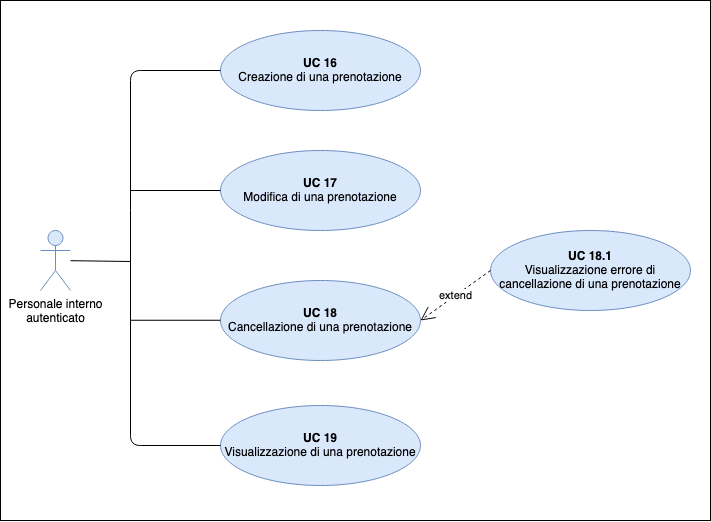
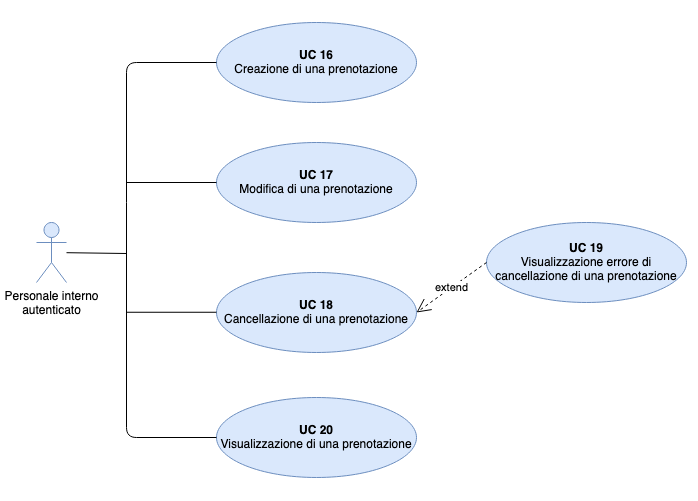
Fix Indici

diff --git a/DocumentiEsterni/AnalisiDeiRequisiti/src/Requisiti/main.tex b/DocumentiEsterni/AnalisiDeiRequisiti/src/Requisiti/main.tex
@@ -57,21 +57,21 @@ Inoltre, ad ogni requisito \`{e} stata assegnata un'importanza:
     R-10.4-F-O & Il sistema deve permettere la selezione dell'ora per cui effettuare la prenotazione & UC-16.4 \\
     R-11-F-O & Il sistema deve permettere la modifica di una prenotazione precedentemente effettuata & UC-17 \\
     R-12-F-O & Il sistema deve permettere la cancellazione di una prenotazione precedentemente effettuata & UC-18 \\
-    R-13-F-D & Il sistema deve permettere la visualizzazione delle prenotazioni effettuate & UC-19 \\
-    R-14-F-O & Il sistema deve permettere la marcatura di una postazione come "igienizzata" & UC-20 \\
-    R-15-F-O & Il sistema deve marcare una postazione come "sporca" nel momento in cui viene occupata & UC-21 \\
-    R-16-F-O & Il sistema deve permettere di marcare una postazione come "occupata" & UC-22 \\
-    R-17-F-O & Il sistema deve permettere ad un amministratore autenticato di contrassegnare una postazione come abilitata & UC-23 \\
-    R-18-F-O & Il sistema deve permettere ad un amministratore autenticato di aggiungere una postazione & UC-24 \\
-    R-19-F-O & Il sistema deve permettere ad un amministratore autenticato la disabilitazione di una postazione & UC-25 \\
-    R-20-F-O & Il sistema deve permettere ad un amministratore autenticato la rimozione di una postazione & UC-26 \\
-    R-21-F-D & Il sistema deve permettere ad un amministratore autenticato la visualizzazione dello storico di una postazione & UC-27 \\
-    R-22-F-O & Il sistema deve permettere ad un amministratore autenticato lo scaricamento di report dello storico di una postazione & UC-28 \\
-    R-23-F-O & Il sistema deve permettere ad un amministratore autenticato di aggiungere una stanza & UC-29 \\
-    R-24-F-O & Il sistema deve permettere ad un amministratore autenticato la disabilitazione di una stanza & UC-30 \\
-    R-25-F-O & Il sistema deve permettere ad un amministratore autenticato la rimozione di una stanza & UC-31 \\
-    R-26-F-D & Il sistema deve permettere ad un amministratore autenticato la visualizzazione dello storico di una stanza & UC-32 \\
-    R-27-F-O & Il sistema deve permettere ad un amministratore autenticato lo scaricamento di report dello storico di una stanza & UC-33 \\
-    R-28-F-O & Il sistema deve permettere ad un igienizzatore di marcare una postazione come "igienizzata" & UC-34 \\
-    R-29-F-O & Il sistema deve permettere ad un igienizzatore di marcare una stanza come "igienizzata" & UC-35 \\
+    R-13-F-D & Il sistema deve permettere la visualizzazione delle prenotazioni effettuate & UC-20 \\
+    R-14-F-O & Il sistema deve permettere la marcatura di una postazione come "igienizzata" & UC-21 \\
+    R-15-F-O & Il sistema deve marcare una postazione come "sporca" nel momento in cui viene occupata & UC-22 \\
+    R-16-F-O & Il sistema deve permettere di marcare una postazione come "occupata" & UC-23 \\
+    R-17-F-O & Il sistema deve permettere ad un amministratore autenticato di contrassegnare una postazione come abilitata & UC-24 \\
+    R-18-F-O & Il sistema deve permettere ad un amministratore autenticato di aggiungere una postazione & UC-25 \\
+    R-19-F-O & Il sistema deve permettere ad un amministratore autenticato la disabilitazione di una postazione & UC-26 \\
+    R-20-F-O & Il sistema deve permettere ad un amministratore autenticato la rimozione di una postazione & UC-27 \\
+    R-21-F-D & Il sistema deve permettere ad un amministratore autenticato la visualizzazione dello storico di una postazione & UC-28 \\
+    R-22-F-O & Il sistema deve permettere ad un amministratore autenticato lo scaricamento di report dello storico di una postazione & UC-29 \\
+    R-23-F-O & Il sistema deve permettere ad un amministratore autenticato di aggiungere una stanza & UC-30 \\
+    R-24-F-O & Il sistema deve permettere ad un amministratore autenticato la disabilitazione di una stanza & UC-31 \\
+    R-25-F-O & Il sistema deve permettere ad un amministratore autenticato la rimozione di una stanza & UC-32 \\
+    R-26-F-D & Il sistema deve permettere ad un amministratore autenticato la visualizzazione dello storico di una stanza & UC-33 \\
+    R-27-F-O & Il sistema deve permettere ad un amministratore autenticato lo scaricamento di report dello storico di una stanza & UC-34 \\
+    R-28-F-O & Il sistema deve permettere ad un igienizzatore di marcare una postazione come "igienizzata" & UC-35 \\
+    R-29-F-O & Il sistema deve permettere ad un igienizzatore di marcare una stanza come "igienizzata" & UC-36 \\
 \end{longtable}

diff --git a/DocumentiEsterni/AnalisiDeiRequisiti/src/CasiDUso/src/UC-stanza.tex b/DocumentiEsterni/AnalisiDeiRequisiti/src/CasiDUso/src/UC-stanza.tex
@@ -1,4 +1,4 @@
-\subsection{UC-29 Aggiunta stanza}
+\subsection{UC-30 Aggiunta stanza}
 \begin{itemize}
     \item \textbf{Attori:} amministratore autenticato;
     \item \textbf{Descrizione:} un amministratore pu\`{o} aggiungere una stanza alla lista di stanze censite;
@@ -12,7 +12,7 @@
 \end{itemize}
 
 
-\subsection{UC-30 Disabilitazione stanza}
+\subsection{UC-31 Disabilitazione stanza}
 \begin{itemize}
     \item \textbf{Attori:} amministratore autenticato;
     \item \textbf{Descrizione:} un amministratore pu\`{o} disabilitare una stanza, impedendo la prenotazione delle postazioni presenti all'interno della stanza. Tutte le prenotazioni per tutte le postazioni di quella stanza vengono cancellate;
@@ -27,7 +27,7 @@
 \end{itemize}
 
 
-\subsection{UC-31 Rimozione stanza}
+\subsection{UC-32 Rimozione stanza}
 \begin{itemize}
     \item \textbf{Attori:} amministratore autenticato;
     \item \textbf{Descrizione:} un amministratore pu\`{o} rimuovere una stanza, rimuovendo cos\`{i} la prenotazione delle postazioni presenti all'interno della stanza. Tutte le prenotazioni per quella stanza vengono cancellate;
@@ -43,7 +43,7 @@
 
 
 
-\subsection{UC-32 Visualizzazione storico stanza}
+\subsection{UC-33 Visualizzazione storico stanza}
 \begin{itemize}
     \item \textbf{Attori:} amministratore autenticato;
     \item \textbf{Descrizione:} un amministratore pu\`{o} visualizzare lo storico degli utilizzi e delle pulizie di tutte le postazioni di una stanza, con specificazione dell'utente che ha compiuto ogni azione;
@@ -57,7 +57,7 @@
 
 
 
-\subsection{UC-33 Scarica report stanza}
+\subsection{UC-34 Scarica report stanza}
 \begin{itemize}
     \item \textbf{Attori:} amministratore autenticato;
     \item \textbf{Descrizione:} un amministratore pu\`{o} scaricare un report che sommarizza l'utilizzo delle stanze e delle postazioni.

diff --git a/DocumentiEsterni/AnalisiDeiRequisiti/src/CasiDUso/src/UC-postazione.tex b/DocumentiEsterni/AnalisiDeiRequisiti/src/CasiDUso/src/UC-postazione.tex
@@ -1,4 +1,4 @@
-\subsection{UC-24 Aggiunta postazione}
+\subsection{UC-25 Aggiunta postazione}
 \begin{itemize}
     \item \textbf{Attori:} amministratore autenticato;
     \item \textbf{Descrizione:} un amministratore pu\`{o} aggiungere una postazione alla lista di postazioni disponibili eventualmente aggiungendo la postazione ad una stanza;
@@ -12,7 +12,7 @@
 \end{itemize}
 
 
-\subsection{UC-25 Disabilitazione postazione}
+\subsection{UC-26 Disabilitazione postazione}
 \begin{itemize}
     \item \textbf{Attori:} amministratore autenticato;
     \item \textbf{Descrizione:} un amministratore pu\`{o} disabilitare una postazione, rendendola non prenotabile. Tutte le prenotazioni per quella postazione vengono cancellate;
@@ -27,7 +27,7 @@
 \end{itemize}
 
 
-\subsection{UC-26 Rimozione postazione}
+\subsection{UC-27 Rimozione postazione}
 \begin{itemize}
     \item \textbf{Attori:} amministratore autenticato;
     \item \textbf{Descrizione:} un amministratore pu\`{o} rimuovere una postazione dalla lista di postazioni disponibili;
@@ -42,7 +42,7 @@
 \end{itemize}
 
 
-\subsection{UC-27 Visualizzazione storico postazione}
+\subsection{UC-28 Visualizzazione storico postazione}
 \begin{itemize}
     \item \textbf{Attori:} amministratore autenticato;
     \item \textbf{Descrizione:} un amministratore pu\`{o} visualizzare lo storico degli utilizzi e delle pulizie della postazione con specificazione dell'utente che ha compiuto ogni azione;
@@ -56,7 +56,7 @@
 
 
 
-\subsection{UC-28 Scarica report postazione}
+\subsection{UC-29 Scarica report postazione}
 \begin{itemize}
     \item \textbf{Attori:} amministratore autenticato;
     \item \textbf{Descrizione:} un amministratore pu\`{o} scaricare un report che sommarizza l'utilizzo della postazione;

diff --git a/DocumentiEsterni/AnalisiDeiRequisiti/src/CasiDUso/src/UC-creazionePrenotazione.tex b/DocumentiEsterni/AnalisiDeiRequisiti/src/CasiDUso/src/UC-creazionePrenotazione.tex
@@ -24,7 +24,7 @@ Il presente diagramma vuole riassumere la possibilità di gestione delle prenota
 \subsection{UC-16 Creazione di una prenotazione}
 \begin{figure}[H]
 	\centering
-	  \includegraphics[scale=0.80]{src/CasiDUso/immagini/UC-gestionePrenotazione.png}\\
+	  \includegraphics[width=\textwidth]{src/CasiDUso/immagini/UC-gestionePrenotazione.png}\\
 	\caption{Creazione di una prenotazione}
   \end{figure}
 \begin{itemize}
@@ -135,7 +135,7 @@ Il presente diagramma vuole riassumere la possibilità di gestione delle prenota
 	\end{itemize}
 \end{itemize}
 
-\subsubsection{UC-18.1 Visualizzazione errore di cancellazione: tentativo di cancellazione di una prenotazione per un orario passato}
+\subsubsection{UC-19 Visualizzazione errore di cancellazione: tentativo di cancellazione di una prenotazione per un orario passato}
 \begin{itemize}
 \item \textbf{Attori primari:} personale interno autenticato;
 \item \textbf{Precondizione:} il personale interno autenticato sta cercando di cancellare una prenotazione già usufruita in un orario passato;
@@ -143,8 +143,8 @@ Il presente diagramma vuole riassumere la possibilità di gestione delle prenota
 \item \textbf{Scenario principale:} il personale interno autenticato visualizza un messaggio di errore in cui viene informato che non è possibile cancellare una prenotazione per un orario passato.
 \end{itemize}
 \newpage
-\subsection{UC-19 Visualizzazione di una prenotazione}
 
+\subsection{UC-20 Visualizzazione di una prenotazione}
 \begin{itemize}
 \item \textbf{Attori primari:} personale interno autenticato;
 \item \textbf{Descrizione:} l'attore vuole visualizzare le sue prenotazioni attive nel sistema;

diff --git a/DocumentiEsterni/AnalisiDeiRequisiti/src/CasiDUso/src/UC-statoPostazioni.tex b/DocumentiEsterni/AnalisiDeiRequisiti/src/CasiDUso/src/UC-statoPostazioni.tex
@@ -21,7 +21,7 @@ Il presente diagramma vuole riassumere la possibilità di prenotazione delle pre
 \end{itemize}
 
 
-\subsection{UC-20 Marca postazione igienizzata}
+\subsection{UC-21 Marca postazione igienizzata}
 
 \begin{itemize}
 \item \textbf{Attori primari:} personale interno autenticato;
@@ -36,7 +36,7 @@ Il presente diagramma vuole riassumere la possibilità di prenotazione delle pre
 	\end{itemize}
 \end{itemize}
 
-\subsection{UC-21 Marca postazione sporca}
+\subsection{UC-22 Marca postazione sporca}
 
 \begin{itemize}
 \item \textbf{Attori primari:} personale interno autenticato;
@@ -52,7 +52,7 @@ Il presente diagramma vuole riassumere la possibilità di prenotazione delle pre
 
 \newpage
 
-\subsection{UC-22 Marca postazione occupata}
+\subsection{UC-23 Marca postazione occupata}
 
 \begin{itemize}
 \item \textbf{Attori primari:} personale interno autenticato;
@@ -75,7 +75,7 @@ Il presente diagramma vuole riassumere la possibilità di prenotazione delle pre
 %	\end{itemize}%
 %\end{itemize}%
 
-\subsection{UC-23 Contrassegna postazione abilitata}
+\subsection{UC-24 Contrassegna postazione abilitata}
 
 \begin{itemize}
 \item \textbf{Attori primari:} amministratore;

diff --git a/DocumentiEsterni/AnalisiDeiRequisiti/src/CasiDUso/src/UC-igienizzazionePostazioni.tex b/DocumentiEsterni/AnalisiDeiRequisiti/src/CasiDUso/src/UC-igienizzazionePostazioni.tex
@@ -20,7 +20,7 @@ Il presente diagramma vuole riassumere la possibilità di igienizzazione delle p
 	\end{itemize}
 \end{itemize}
 
-\subsection{UC-34 Marca postazione igienizzata}
+\subsection{UC-35 Marca postazione igienizzata}
 
 \begin{itemize}
 \item \textbf{Attori primari:} igienizzatore;
@@ -50,7 +50,7 @@ Il presente diagramma vuole riassumere la possibilità di igienizzazione delle p
 %		\end{itemize}
 %\end{itemize}
 
-\subsection{UC-35 Marca stanza igienizzata}
+\subsection{UC-36 Marca stanza igienizzata}
 
 \begin{itemize}
 \item \textbf{Attori primari:} igienizzatore;
